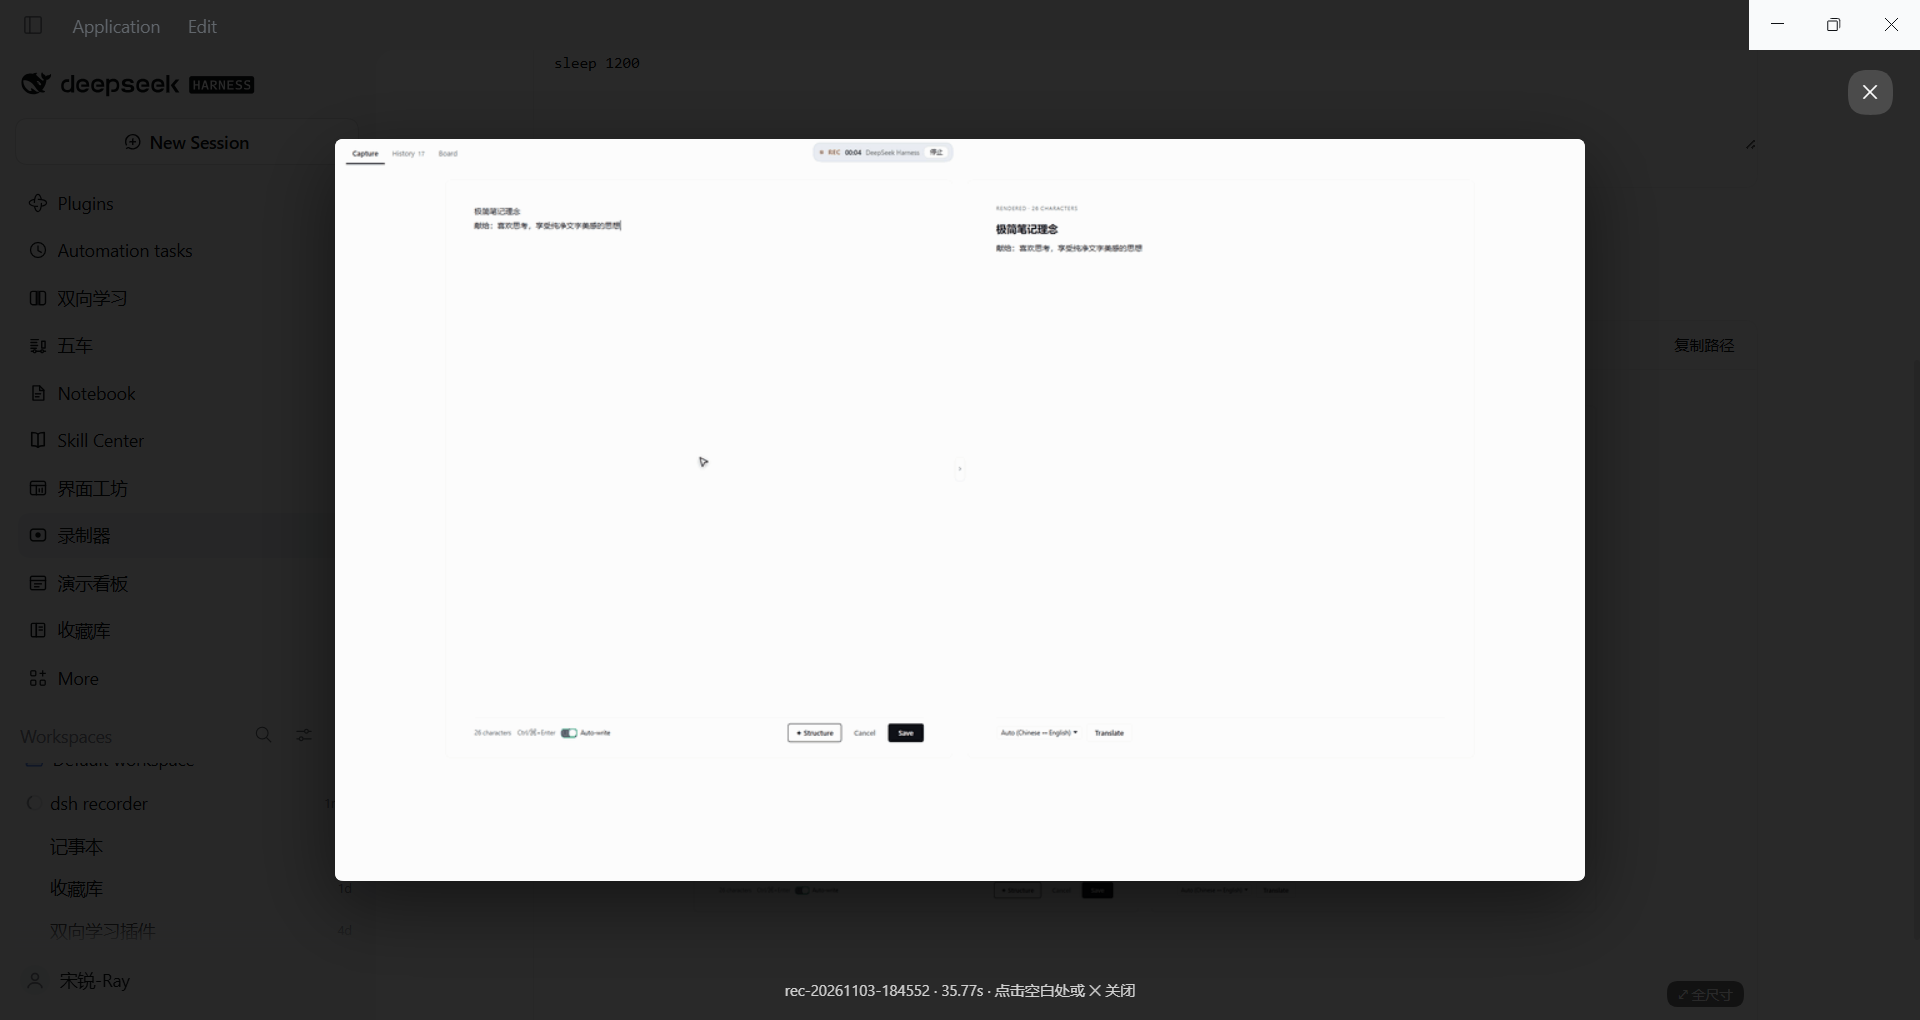
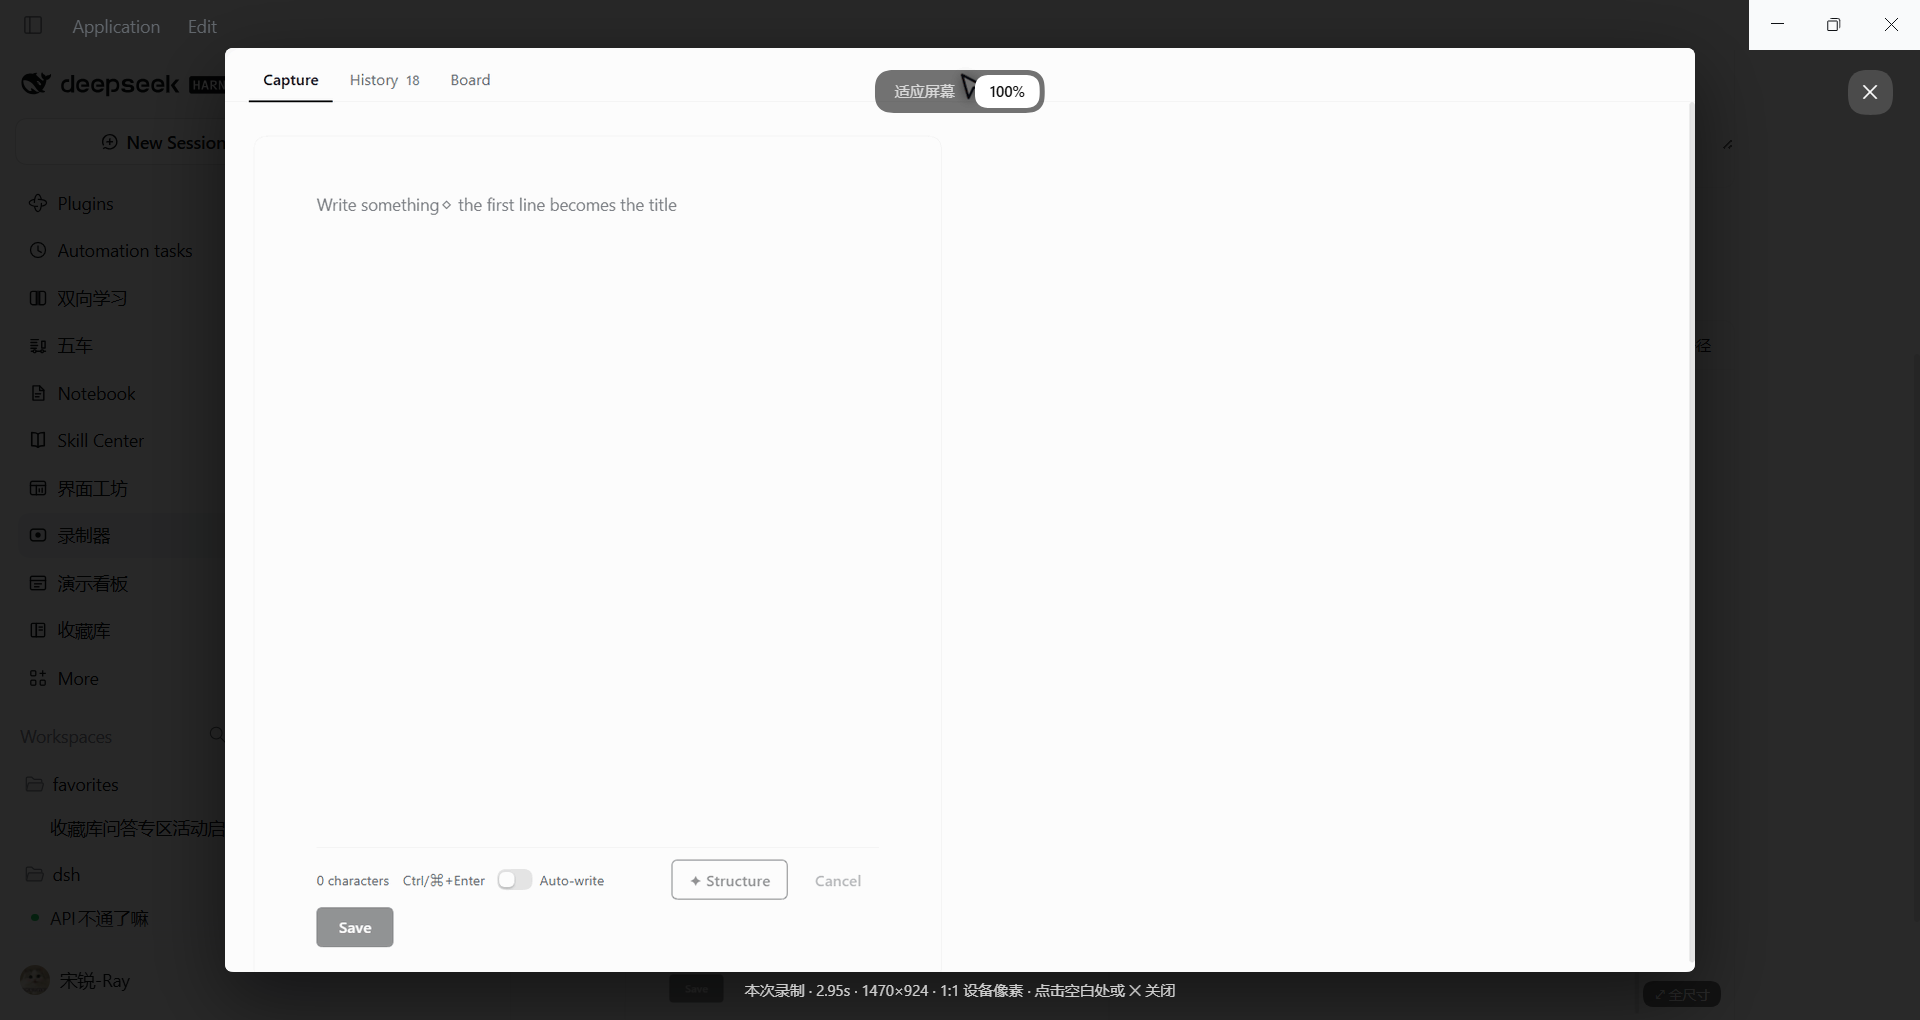
recorder: lightbox opens at 100% (one GIF pixel per device pixel)
The fit view shrank a whole page, so text read smaller than the live UI. The lightbox now defaults to 100%: width = naturalWidth / devicePixelRatio, which shows the text at exactly the recorded physical size; 适应屏幕 still fits the frame. The meta shows the pixel size and mode. README/findings note that 功能区's aspect is the panel's, not the window's — use 整个窗口 to match the full window.

diff --git a/client.js b/client.js
@@ -1095,6 +1095,13 @@ sleep 1200`
       const [settingsOpen, setSettingsOpen] = useState(false)
       const [historyPick, setHistoryPick] = useState(null)
       const [preview, setPreview] = useState(null)
+      const [zoom, setZoom] = useState('actual')
+      const [natural, setNatural] = useState({ w: 0, h: 0 })
+      const openPreview = (item) => {
+        setZoom('actual')
+        setNatural({ w: 0, h: 0 })
+        setPreview(item)
+      }
       const [script, setScript] = useState(readDraft)
       const storedNumber = (key, fallback) => {
         try {
@@ -1456,7 +1463,7 @@ sleep 1200`
         error !== '' ? h('div', { className: 'dshr-error' }, error) : null,
         rehearsal !== null ? rehearsalCard(rehearsal) : null,
         result !== null
-          ? resultCard(result, () => void copyPath(result.gif), '本次录制', (item) => setPreview(item))
+          ? resultCard(result, () => void copyPath(result.gif), '本次录制', openPreview)
           : emptyCard('还没有录制结果', '写好脚本，按「开始录制」，结果会显示在这里。'),
       )
 
@@ -1468,7 +1475,7 @@ sleep 1200`
               React.Fragment,
               null,
               h('button', { className: 'dshr-link dshr-back', type: 'button', onClick: () => setHistoryPick(null) }, '← 返回历史列表'),
-              resultCard(historyPick, () => void copyPath(historyPick.gif), '历史录制', (item) => setPreview(item)),
+              resultCard(historyPick, () => void copyPath(historyPick.gif), '历史录制', openPreview),
             )
           : recent.length === 0
             ? emptyCard('还没有录制', '录制一次之后，历史记录会出现在这里。')
@@ -1550,11 +1557,24 @@ sleep 1200`
           ? h(
               'div',
               { className: 'dshr-lightbox', role: 'dialog', 'aria-modal': 'true', 'aria-label': '全尺寸预览', onClick: () => setPreview(null) },
+              h(
+                'div',
+                { className: 'dshr-lightbox-toolbar', onClick: (event) => event.stopPropagation() },
+                h('button', { className: 'dshr-zoom' + (zoom === 'fit' ? ' is-active' : ''), type: 'button', onClick: () => setZoom('fit') }, '适应屏幕'),
+                h('button', { className: 'dshr-zoom' + (zoom === 'actual' ? ' is-active' : ''), type: 'button', onClick: () => setZoom('actual') }, '100%'),
+              ),
               h('img', {
                 className: 'dshr-lightbox-img',
                 src: assetUrl(preview.gif),
                 alt: 'full-size preview',
                 onClick: (event) => event.stopPropagation(),
+                onLoad: (event) => setNatural({ w: event.currentTarget.naturalWidth, h: event.currentTarget.naturalHeight }),
+                // 100% means one GIF pixel per device pixel: the text is the same physical size as the
+                // app was when recorded. Fit shrinks the whole frame into the viewport (smaller text).
+                style:
+                  zoom === 'actual' && natural.w > 0
+                    ? { width: `${natural.w / (window.devicePixelRatio || 1)}px`, maxWidth: 'none', maxHeight: 'none' }
+                    : undefined,
               }),
               h(
                 'button',
@@ -1569,7 +1589,11 @@ sleep 1200`
                 },
                 '✕',
               ),
-              h('span', { className: 'dshr-lightbox-meta' }, `${preview.name ?? (tab === 'record' ? '本次录制' : '历史录制')} · ${preview.seconds ?? '?'}s · 点击空白处或 ✕ 关闭`),
+              h(
+                'span',
+                { className: 'dshr-lightbox-meta' },
+                `${preview.name ?? (tab === 'record' ? '本次录制' : '历史录制')} · ${preview.seconds ?? '?'}s${natural.w > 0 ? ` · ${natural.w}×${natural.h} · ${zoom === 'actual' ? '1:1 设备像素' : '适应窗口'}` : ''} · 点击空白处或 ✕ 关闭`,
+              ),
             )
           : null,
       )
@@ -1712,8 +1736,12 @@ sleep 1200`
 .dshr-shot-button { position: relative; display: block; width: 100%; padding: 0; border: 0; background: transparent; cursor: zoom-in; }
 .dshr-shot-button:hover .dshr-shot { filter: brightness(.97); }
 .dshr-shot-zoom { position: absolute; right: 10px; bottom: 10px; padding: 4px 9px; border-radius: 999px; background: rgba(0,0,0,.55); color: #fff; font-size: 11px; line-height: 1.2; pointer-events: none; }
-.dshr-lightbox { position: fixed; inset: 0; z-index: 200; display: flex; align-items: center; justify-content: center; padding: 24px; background: rgba(0,0,0,.84); cursor: zoom-out; }
-.dshr-lightbox-img { display: block; max-width: 96vw; max-height: 88vh; width: auto; height: auto; border-radius: 8px; box-shadow: 0 20px 60px rgba(0,0,0,.5); background: #fff; cursor: default; }
+.dshr-lightbox { position: fixed; inset: 0; z-index: 200; display: flex; align-items: center; justify-content: center; padding: 24px; background: rgba(0,0,0,.84); cursor: zoom-out; overflow: auto; }
+.dshr-lightbox-img { display: block; max-width: 96vw; max-height: 88vh; width: auto; height: auto; margin: auto; border-radius: 8px; box-shadow: 0 20px 60px rgba(0,0,0,.5); background: #fff; cursor: default; }
+.dshr-lightbox-toolbar { position: fixed; top: 56px; left: 50%; transform: translateX(-50%); z-index: 201; display: flex; gap: 4px; padding: 4px; border-radius: 999px; background: rgba(0,0,0,.55); }
+.dshr-zoom { border: 0; background: transparent; color: rgba(255,255,255,.72); font: inherit; font-size: 12px; padding: 5px 12px; border-radius: 999px; cursor: pointer; }
+.dshr-zoom:hover { color: #fff; }
+.dshr-zoom.is-active { background: #fff; color: #111; font-weight: 600; }
 .dshr-lightbox-close { position: fixed; top: 56px; right: 22px; width: 36px; height: 36px; padding: 0; border: 0; border-radius: 50%; background: rgba(255,255,255,.16); color: #fff; font-size: 15px; line-height: 1; cursor: pointer; }
 .dshr-lightbox-close:hover { background: rgba(255,255,255,.28); }
 .dshr-lightbox-meta { position: fixed; bottom: 16px; left: 50%; transform: translateX(-50%); color: rgba(255,255,255,.78); font-size: 12px; font-variant-numeric: tabular-nums; }

diff --git a/README.md b/README.md
@@ -27,7 +27,7 @@ Sidebar → 「录制器」 opens a page with two tabs.
 | 录制脚本 | The script, front and centre. JSON steps or one step per line (see below); kept in `localStorage` between visits. |
 | 复制给插件 agent 的 prompt | One click copies a self-contained prompt (the full spec + what to output). Paste it into the agent that owns the plugin, describe the demo, and it returns a script you paste back. `载入示例` restores the notes walk that the verified GIF came from. |
 | 开始录制 | The primary action, a large button under the editor. `排练（不录制）` runs the same steps without recording (real clicks, no video); `停止` ends early. A rehearsal brings the window forward first — a background window throttles the page's timers and would freeze the walk. |
-| 本次录制 | The result of this run: a large GIF preview (click it for a full-size lightbox), its length/frames/size, the path, and the per-step log. |
+| 本次录制 | The result of this run: a large GIF preview (click it for a full-size lightbox), its length/frames/size, the path, and the per-step log. The lightbox opens at **100%** — one GIF pixel per device pixel, so the text is exactly the physical size it had on screen; `适应屏幕` fits the whole frame instead (smaller text). |
 
 ![Full-size preview](docs/panel-preview.png)
 
@@ -97,6 +97,10 @@ the **insets in CSS pixels plus `devicePixelRatio`**; the Host maps them through
 client area (Win32 `GetClientRect` + `ClientToScreen`) and crops every frame. The window is still
 maximized for the shoot — the crop is what removes the sidebar and the app title bar, and
 it stays correct on a mixed-DPI desktop because the mapping is measured, not assumed.
+
+Because the crop is the **main panel**, the GIF's aspect ratio is the panel's, not the window's
+(e.g. 1544×970 for a 1920×1020 window). The image is still scaled proportionally; if the framing has
+to match the full window, pick `整个窗口`.
 
 - `整个窗口` records the maximized window as-is (sidebar included).
 - `自定义区域` takes a CSS selector and crops to that element's box; the element must exist when you

diff --git a/docs/findings.md b/docs/findings.md
@@ -143,6 +143,7 @@ Everything below was observed while turning the prototype into `@tyouter/dsh-rec
 | Click feedback is an in-page overlay | the pointer, motion breadcrumbs, double ring and element outline are DOM elements, so they are captured with the page and need no post-processing. The theme's brand colour is near-black here, so the effects use a fixed blue (`#4d6bfe`) instead of `--dsw-alias-brand-primary` or they would vanish into text and borders; the overlay's element outline is what makes a small click still readable at 900 px |
 | **A 1000 px GIF is blurry on a 125% display** | the panel preview is ~978 CSS px = ~1222 device px, so a 1000 px GIF is upscaled 1.22x before it reaches the screen; the GIF was also encoded below the crop's physical width (1470). The width now defaults to `(innerWidth - sidebar) * devicePixelRatio` (1470 here, capped at 1600), and the encoder palette went from 128 to 256 colours. Old 1000 px recordings stay soft; re-record to get the sharper ones |
 | Settings used the wrong surface token | the popover had `--dsw-alias-bg-overlay`, a blue-grey floating surface, while the page is `--dsw-alias-bg-base`; it now uses `bg-base` and matches the page |
+| The GIF's aspect is the panel's, not the window's | `功能区` crops to `.dshr-page` (1544×970 for a 1920×1020 window), so the image is proportional but not the same aspect as the window; `整个窗口` keeps the window aspect. A fit-to-screen view of a whole page always shows text smaller than the live UI — the lightbox opens at **100% = one GIF pixel per device pixel** (width = naturalWidth / devicePixelRatio) so the text matches the recorded physical size; `适应屏幕` upscales to the viewport |
 
 ## Window geometry
 
